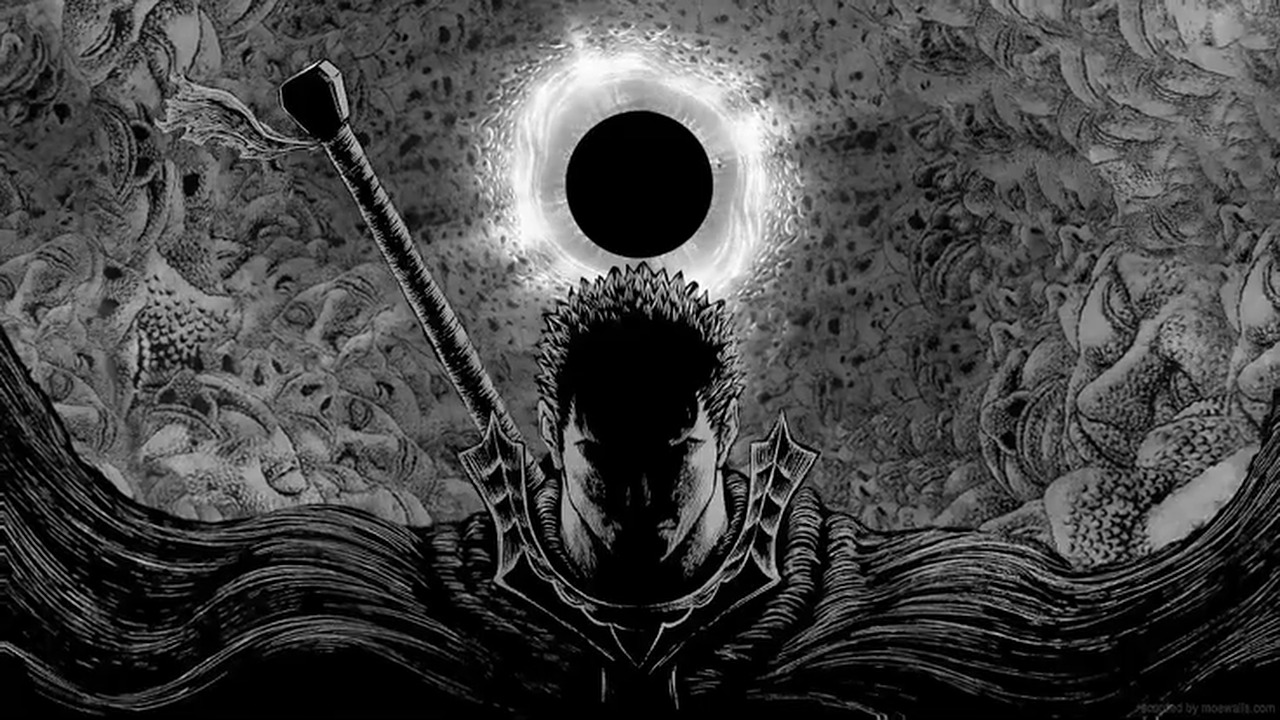
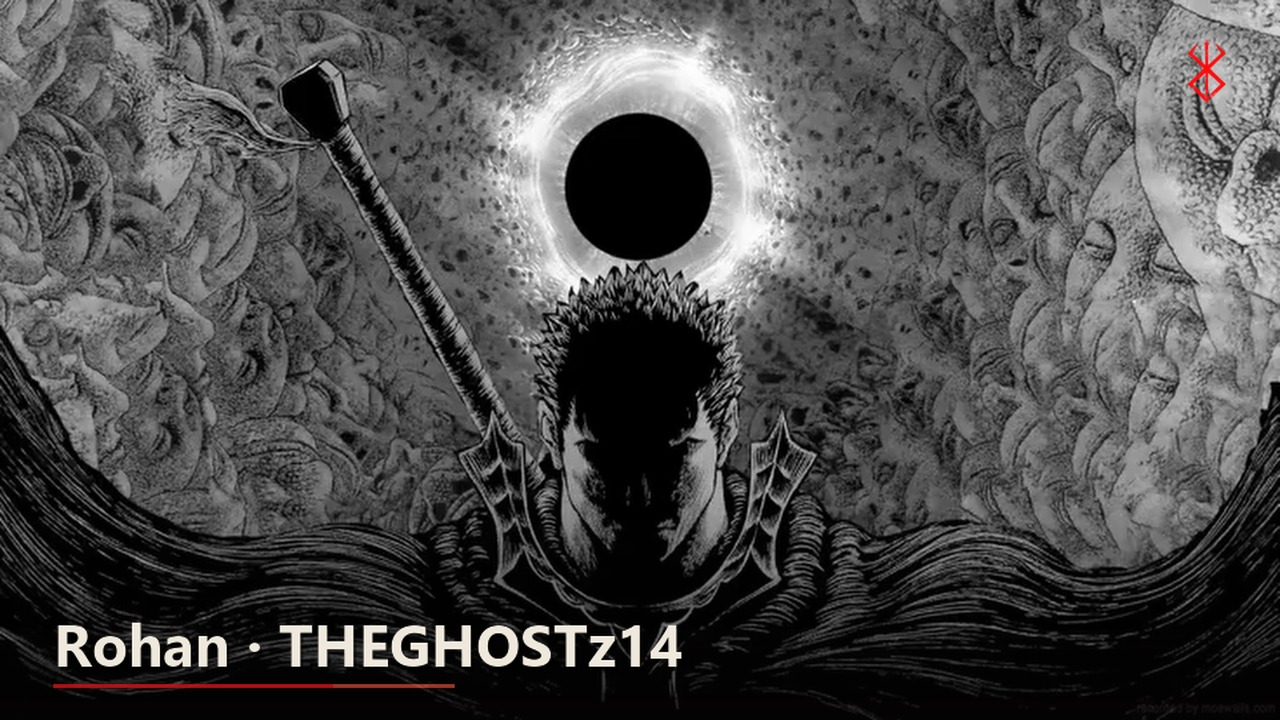
Make the hero a full-width poster
The name and the sigil are painted into the art now, so the still and the loop
both carry them, the banner runs the full column width, and the duplicate
heading and standalone sigil under it are gone.

diff --git a/tools/build-readme.py b/tools/build-readme.py
@@ -290,24 +290,15 @@ def build():
     banner = ROOT / "assets" / "banner.jpg"
     banner_v = hashlib.sha1(banner.read_bytes()).hexdigest()[:8] if banner.exists() else "0"
     # GitHub throws away <video>, so the live wallpaper ships as an animated webp
-    # with the still as the fallback
+    # with the still as the fallback; the sigil and the name are baked into the art
     webp = ROOT / "assets" / "banner.webp"
     webp_v = hashlib.sha1(webp.read_bytes()).hexdigest()[:8] if webp.exists() else banner_v
-    a("  <picture>")
-    a(f'    <source type="image/webp" srcset="assets/banner.webp?v={webp_v}">')
-    a(f'    <img src="assets/banner.jpg?v={banner_v}" alt="Profile banner" width="72%">')
-    a("  </picture>")
-    rule = ROOT / "assets" / "rule.svg"
-    rule_v = hashlib.sha1(rule.read_bytes()).hexdigest()[:8] if rule.exists() else "0"
-    a("")
-    a("  " + img(f"assets/rule.svg?v={rule_v}", "divider", "62%"))
-    a("  <br>")
-    brand = ROOT / "assets" / "brand.png"
-    brand_v = hashlib.sha1(brand.read_bytes()).hexdigest()[:8] if brand.exists() else "0"
-    a("")
-    a("  " + img(f"assets/brand.png?v={brand_v}", "Brand of Sacrifice", "52"))
-    a("")
-    a("  # Rohan · `THEGHOSTz14`")
+    a("  <h1>")
+    a("    <picture>")
+    a(f'      <source type="image/webp" srcset="assets/banner.webp?v={webp_v}">')
+    a(f'      <img src="assets/banner.jpg?v={banner_v}" alt="Rohan - THEGHOSTz14" width="100%">')
+    a("    </picture>")
+    a("  </h1>")
     a("")
     a("  ### Industrial Electrical & PLC Engineer · Godot game dev · automating the boring parts")
     a("")

diff --git a/README.md b/README.md
@@ -1,16 +1,11 @@
 <div align="center">
 
-  <picture>
-    <source type="image/webp" srcset="assets/banner.webp?v=a5c25f4f">
-    <img src="assets/banner.jpg?v=6a2b4e9d" alt="Profile banner" width="72%">
-  </picture>
-
-  <img src="assets/rule.svg?v=c7f2394e" alt="divider" width="62%">
-  <br>
-
-  <img src="assets/brand.png?v=415e73a2" alt="Brand of Sacrifice" width="52">
-
-  # Rohan · `THEGHOSTz14`
+  <h1>
+    <picture>
+      <source type="image/webp" srcset="assets/banner.webp?v=eff912d6">
+      <img src="assets/banner.jpg?v=74f41728" alt="Rohan - THEGHOSTz14" width="100%">
+    </picture>
+  </h1>
 
   ### Industrial Electrical & PLC Engineer · Godot game dev · automating the boring parts
 
